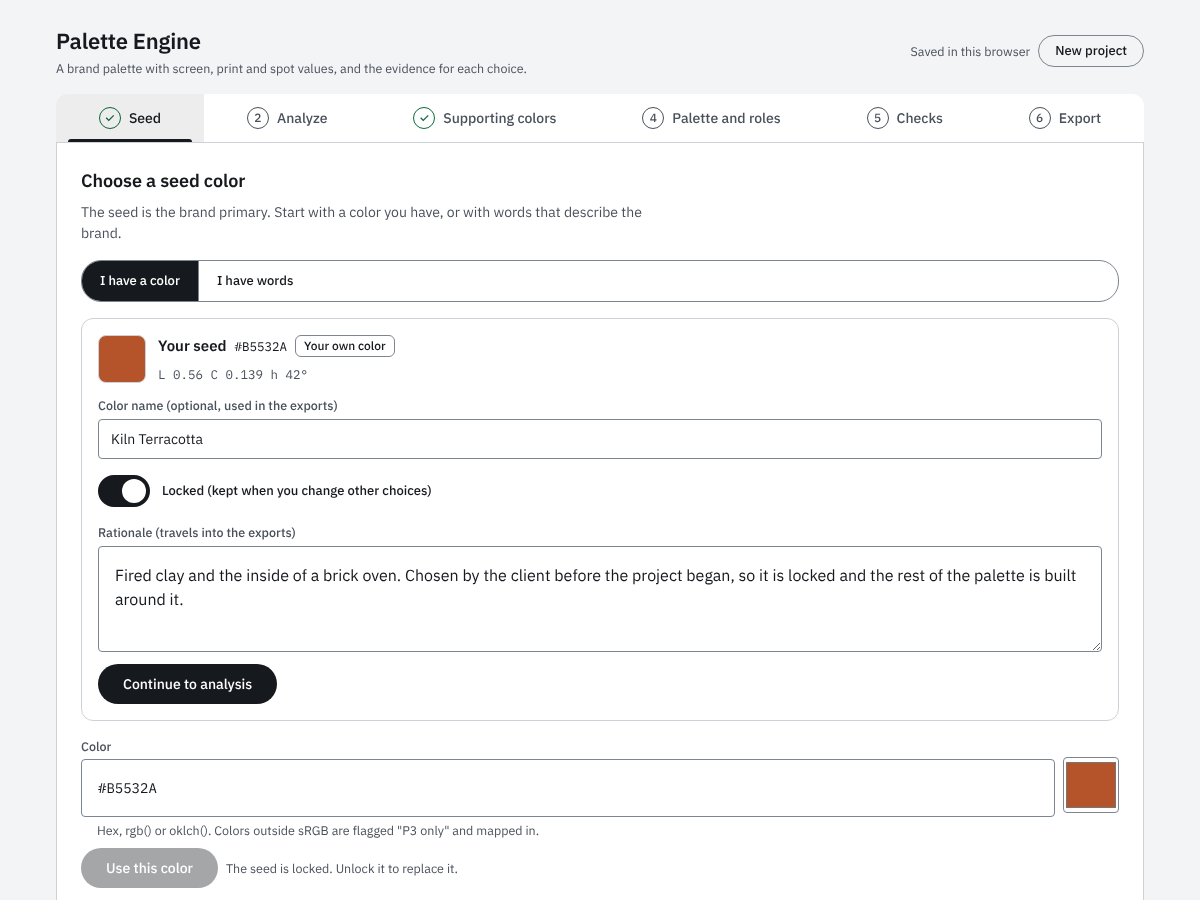
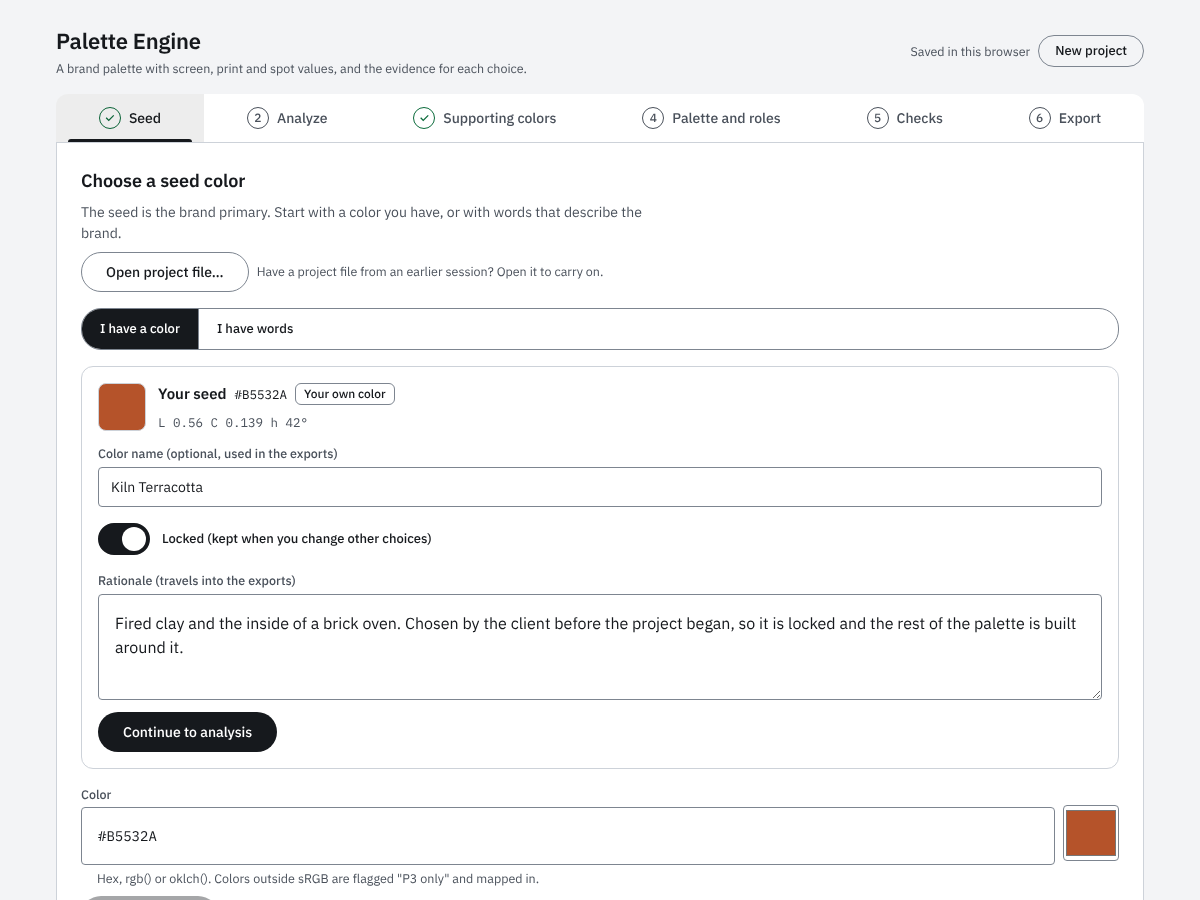
Open a saved project from the Seed step, landing on the step it was saved on
- web/app.js: the Seed step has an "Open project file..." button; Seed and Export share one
  opener (projectOpener) and one result note (projectResult). Opening over existing work
  still asks first; a failed open changes nothing and its note shows on the step where it
  was tried. A project with no seed opens on the Seed step.
- Opening a project now lands on the step it was saved on (no longer on Export). The
  "Opened." note shows above that step's heading and focus moves to the heading; the note
  ends when you leave the step.
- web/test_export_ui.mjs: 17 new checks (no work, with work, bad file, project without a seed,
  landing on a saved step)
- README, docs/05, docs/06, engine/HANDOFF.md, TO-CONFIRM C43; README Seed screenshot retaken
- Decision-log line 166 (owner adds to ui-ux-decisions-log.md)

Changed region(s): [[0.0617, 0.28, 0.8942, 0.84], [0.0617, 0.8711, 0.4625, 1.0], [0.8633, 0.84, 0.9558, 0.9644]]

diff --git a/web/app.js b/web/app.js
@@ -182,9 +182,13 @@ function chooseSeed(hex, origin, tier, extra) {
 }
 function renderSeed() {
   const known = S.path === 'known';
+  const opener = projectOpener('seed', 'outlined');
+  const seedMsg = exportUi.projectMsg && exportUi.projectMsg.where === 'seed' ? exportUi.projectMsg : null;
   const box = h('div', { class: 'stack' },
     h('div', { class: 'stack-s' }, h('h2', { id: 'panel-title', tabindex: '-1' }, 'Choose a seed color'),
-      h('p', { class: 'lead' }, 'The seed is the brand primary. Start with a color you have, or with words that describe the brand.')),
+      h('p', { class: 'lead' }, 'The seed is the brand primary. Start with a color you have, or with words that describe the brand.'),
+      h('div', { class: 'row' }, opener.button, opener.input, h('span', { class: 'small muted' }, 'Have a project file from an earlier session? Open it to carry on.')),
+      opener.confirm, seedMsg && projectResult(seedMsg)),
     segmented([{ id: 'known', label: 'I have a color' }, { id: 'words', label: 'I have words' }], S.path, (id) => { S.path = id; commit(); }, 'How to start'),
     S.seed && seedCard(),
     known ? renderKnown() : renderWords());
@@ -578,35 +582,49 @@ async function runExport(id) {
   exportUi.busy = ''; exportUi.results[id] = res; render(); say(res.text);
   const b = document.getElementById(`exp-${id}`); if (b) b.focus();
 }
-async function openProject(file) {
-  const fail = (errors, warnings) => { exportUi.projectMsg = { ok: false, errors, warnings: warnings || [] }; render(); say('The project file was not opened'); };
+async function openProject(file, where = 'export') {
+  const fail = (errors, warnings) => { exportUi.projectMsg = { ok: false, where, errors, warnings: warnings || [] }; render(); say('The project file was not opened'); };
   if (!file) return;
   if (file.size > PE.MAX_PROJECT_BYTES) return fail(['The file is too large to be a Palette Engine project.']);
   let text; try { text = await file.text(); } catch (e) { return fail(['The file could not be read.']); }
   const r = PE.parseProject(text);
   if (!r.ok) return fail(r.errors, r.warnings);
-  S = r.state; S.step = 'export'; if (!S.seed) S.step = 'seed';
-  exportUi.results = {}; exportUi.projectMsg = { ok: true, errors: [], warnings: r.warnings, savedAt: r.savedAt, name: file.name };
+  S = r.state; // the step it was saved on (a project with no seed is always on Seed: validateState)
+  exportUi.results = {}; exportUi.projectMsg = { ok: true, where: S.step, errors: [], warnings: r.warnings, savedAt: r.savedAt, name: file.name };
   saveNote = 'Opened from a project file'; commit(); say('Project opened');
+  requestAnimationFrame(() => { const t = $('#panel-title'); if (t) t.focus({ preventScroll: false }); }); // the control that was used is gone after the redraw
 }
-function projectSection() {
+// One way to open a project file, used on the Seed step (so a saved project can be the starting point) and on the Export step.
+// Opening over existing work asks first (rule S12.1); a failed open changes nothing (S11.2) and says why (S11.1).
+function projectOpener(where, cls) {
   const hasWork = !!S.seed;
   const input = h('input', { type: 'file', id: 'project-file', accept: '.json,application/json', style: 'display:none', 'aria-label': 'Open a project file', tabindex: '-1' });
-  input.addEventListener('change', () => { const f = input.files && input.files[0]; input.value = ''; if (f) openProject(f); });
+  input.addEventListener('change', () => { const f = input.files && input.files[0]; input.value = ''; if (f) openProject(f, where); });
   const pick = () => { exportUi.confirmOpen = false; input.click(); };
+  const button = h('button', { type: 'button', class: `btn ${cls}`, id: 'open-project', onclick: () => (hasWork ? (exportUi.confirmOpen = true, render(), (document.getElementById('open-confirm') || {}).focus?.()) : pick()) }, 'Open project file…');
+  const confirm = exportUi.confirmOpen && notice('warn', h('div', { class: 'stack-s' }, h('div', null, h('b', null, 'Replace your current work? '), 'Opening a project file replaces what is on this page. Save it first if you want to keep it.'),
+    h('div', { class: 'row' }, h('button', { type: 'button', class: 'btn filled small', id: 'open-confirm', onclick: pick }, 'Choose a file to open'), h('button', { type: 'button', class: 'btn text small', onclick: () => { exportUi.confirmOpen = false; render(); } }, 'Cancel'))));
+  return { input, button, confirm };
+}
+function projectResult(m) {
+  if (!m) return null;
+  return m.ok
+    ? notice('pass', h('b', null, 'Opened. '), `${m.name}${m.savedAt ? `, saved ${m.savedAt}` : ''}.`, m.warnings.length > 0 && ` Note: ${m.warnings.slice(0, 5).join(' ')}`)
+    : notice('fail', h('div', { class: 'stack-s' }, h('div', null, h('b', null, 'That file was not opened, and your work is unchanged. ')), h('ul', null, m.errors.slice(0, 12).map((e) => h('li', null, e))), m.errors.length > 12 && h('div', null, `…and ${m.errors.length - 12} more.`)));
+}
+function projectSection() {
+  const { input, button, confirm } = projectOpener('export', 'outlined');
   const m = exportUi.projectMsg;
   return h('div', { class: 'sect stack' }, h('h3', null, 'Save or open project'),
     h('p', { class: 'small muted' }, 'Save your choices (colors, locks, notes, overrides, accepted failures, pasted spot values) as a JSON file to open later or on another device. Saving is never blocked by accessibility failures.'),
     field('project-name', 'Project name (used in file names and the spec)', S.name, { compact: true, oninput: (v) => { S.name = v; save(); } }),
     h('div', { class: 'row' },
       h('button', { type: 'button', class: 'btn outlined', id: 'exp-project', disabled: !!exportUi.busy, onclick: () => runExport('project') }, 'Save project file'),
-      h('button', { type: 'button', class: 'btn outlined', id: 'open-project', onclick: () => (hasWork ? (exportUi.confirmOpen = true, render(), (document.getElementById('open-confirm') || {}).focus?.()) : pick()) }, 'Open project file…'),
+      button,
       input),
     exportUi.results.project && h('div', { class: 'small', role: 'status' }, exportUi.results.project.text),
-    exportUi.confirmOpen && notice('warn', h('div', { class: 'stack-s' }, h('div', null, h('b', null, 'Replace your current work? '), 'Opening a project file replaces what is on this page. Save it first if you want to keep it.'),
-      h('div', { class: 'row' }, h('button', { type: 'button', class: 'btn filled small', id: 'open-confirm', onclick: pick }, 'Choose a file to open'), h('button', { type: 'button', class: 'btn text small', onclick: () => { exportUi.confirmOpen = false; render(); } }, 'Cancel')))),
-    m && !m.ok && notice('fail', h('div', { class: 'stack-s' }, h('div', null, h('b', null, 'That file was not opened, and your work is unchanged. ')), h('ul', null, m.errors.slice(0, 12).map((e) => h('li', null, e))), m.errors.length > 12 && h('div', null, `…and ${m.errors.length - 12} more.`))),
-    m && m.ok && notice('pass', h('b', null, 'Opened. '), `${m.name}${m.savedAt ? `, saved ${m.savedAt}` : ''}.`, m.warnings.length > 0 && ` Note: ${m.warnings.slice(0, 5).join(' ')}`));
+    confirm,
+    projectResult(m));
 }
 function renderExport() {
   const pal = palette(); const items = exportStatus(pal);
@@ -642,7 +660,8 @@ function renderExport() {
 }
 
 // --- shell ------------------------------------------------------------------------------------------------------
-function setStep(id) { S.step = id; commit(); requestAnimationFrame(() => { const t = $('#panel-title'); if (t) t.focus({ preventScroll: false }); }); }
+function setStep(id) { if (exportUi.projectMsg && exportUi.projectMsg.where !== 'export') exportUi.projectMsg = null; // the Export step keeps its note, as before; any other step's note ends when the person leaves it
+  S.step = id; commit(); requestAnimationFrame(() => { const t = $('#panel-title'); if (t) t.focus({ preventScroll: false }); }); }
 function renderTabs() {
   const tabs = $('#tabs'); tabs.replaceChildren(...STEPS.map((s, i) => { const disabled = i > 0 && !S.seed; const done = (s.id === 'seed' && S.seed) || (s.id === 'support' && (S.supporting.secondary || S.supporting.tertiary));
     return h('button', { type: 'button', class: 'tab', role: 'tab', id: `tab-${s.id}`, 'aria-selected': String(S.step === s.id), 'aria-controls': 'panel', tabindex: S.step === s.id ? '0' : '-1', disabled: disabled, onclick: () => setStep(s.id) },
@@ -697,7 +716,10 @@ function renderNow() {
   renderTabs();
   const panel = $('#panel'); panel.setAttribute('aria-labelledby', `tab-${S.step}`);
   const view = { seed: renderSeed, analyze: renderAnalyze, support: renderSupport, palette: renderPalette, checks: renderChecks, export: renderExport }[S.step]();
-  panel.replaceChildren(view);
+  // After opening a project that was saved on a step other than Seed or Export, say so on that step (those two show the note inside their own section).
+  const m = exportUi.projectMsg;
+  const note = m && m.ok && m.where === S.step && S.step !== 'seed' && S.step !== 'export' ? projectResult(m) : null;
+  panel.replaceChildren(note ? h('div', { class: 'stack' }, note, view) : view);
 }
 let resetArmed = false;
 function init() {

diff --git a/TO-CONFIRM.md b/TO-CONFIRM.md
@@ -12,6 +12,7 @@ Status: **Open**, **Deferred** (blocked on something the maintainer does not hav
 
 | ID | Type | Item | Status | Detail and how to close it |
 | --- | --- | --- | --- | --- |
+| C43 | Fix | A saved project could only be opened from the Export step, which stays locked until a seed exists | Open (built 2026-10-14, awaiting commit, CI and a live check) | Kwade's report from testing the live page, 2026-10-14. The Seed step now has an "Open project file…" button (outlined, same control and same code as the Export step: `projectOpener` in `web/app.js`), so a saved project can be the starting point. Backing: UI/UX decision 156 (palette engine: Start a palette plus Open a file as the secondary action; E3.1), rules S2.1/S2.2 (Open from file, input type=file), S10 (untrusted file, unchanged), S11 (a failed open says why and changes nothing), S12.1 (opening over existing work asks first; unchanged flow); M3: outlined button, 40 px tall with a 48 px hit area, as the other buttons. Deviations: E3.1 words the secondary action as a link; an outlined button was used because a text-style button read as plain text in the screenshot check. Kwade's decision 2026-10-14: opening lands on the step the project was saved on, not on Export (a project with no seed is always on Seed). An "Opened." note shows above that step's heading (inside the section on Seed and Export), and focus moves to the heading, because the button that was used is gone after the redraw. The note ends when the person leaves the step; the Export step keeps its note, as before. A failed-open note shows on the step where it was tried and is cleared when the person leaves it. Checked in the sandbox: `npm test` passes (export UI 60 checks, 17 new; end to end 72), light, dark and 375 px screenshots look right. Not checked: Windows, CI, the live page, a screen reader on the new button. To close: commit, green CI, redeploy, open a project from the Seed step on the live page. Decision-log line (Kwade agreed the number 2026-10-14): 166, Palette: open a file from the start step, landing on the step it was saved on |
 | C41 | Decide | AGPL `colorparsley` inside the built page, via `apca-w3` | Open (fix built 2026-10-14, awaiting commit and a green CI run) | The built page bundled `colorparsley` 0.1.8 (AGPL-3.0, full text, no added permission) through `apca-w3` 0.1.9, whose own "Limited W3 License" restricts use to web content, forbids altering its essential code and constants, and bars commercial use without a signed agreement except under the W3 arrangement. Whether those two can be distributed together was not settled and is not legal advice. Fix (option a): `build/bundle.mjs` aliases `colorparsley` to `build/stubs/colorparsley-hex.js`, a hex-only module written for this project; the engine only passes hex strings (`apcaScore` in `engine/checks.js`: `'#ffffff'`, `'#000000'` and role colors). Checked 2026-10-14 in the sandbox: stand-in equals the real parser on 200,000 random hex strings; APCA scores equal the unmodified libraries on 100,000 random pairs and a 281,216-pair sweep of the RGB cube; 400 random seeds through `allCandidates`, `accessibilityOf`, `buildPalette`, the APCA table rows and `analyze` gave identical output before and after, and all seven exports of the Fernhill example are byte-identical; the full suite passes (`engine/test_apcastub.mjs` is new, 21 checks); the built page has no AGPL text, and `build/make_page.mjs` now refuses to build if any appears. Not covered: colors given as words or `rgb()` strings (the engine never passes them; the stand-in throws on them). Still open: (1) the `apca-w3` license itself, which still applies to the shipped APCA code; the author was not asked (option d); (2) docs/08 said the page shows the `apca-w3` version, but no code does; either add it to the Checks step or drop the claim; (3) the claude.ai artifact (version 14) still contains `colorparsley` until it is republished. To close: commit, green CI, republish, and decide (1) and (2) |
 | C1 | Confirm | **Ou & Luo (2006): Fig. 6b does not match printed Eq. (4) at low lightness sums** | Open | On the figure the curve is about −0.44 at the lowest sums; the printed equation gives about −0.26. A curve fitted to Fig. 6b (A 0.20, B 0.65, c −3.19, k 0.026) sits about 0.11 rms from the printed constants (0.28, 0.54, −3.88, 0.029). Fig. 7a's class means match neither version. The paper's own range over its 1431 pairs (−1.24 to 1.39) does not decide it: printed gives −1.16 to 1.37, the fit gives −1.30 to 1.40. Figs. 4b, 8 and 10a all match their printed equations, so the mismatch is specific to Eq. (4). An earlier conference version of the model (Ou & Luo, Derby, undated PDF supplied by Kwade) uses different equation forms and a −5 to 5 scale, so it cannot settle Eq. (4). The code keeps the printed equation. No erratum was found in searches (the Wiley page returned 403, so its corrections tab was not read). `engine/test_ouluo.mjs` records the gap size so code and this note cannot drift apart. Wiley is paywalled for Kwade. To close: the Ou/Luo chapter in the Handbook of Color Psychology, a later paper that restates Eq. (4), or ask the authors; if Fig. 6b is right, change `ls0`–`ls3` in `OU_LUO_K`. Asked the authors 2026-10-01 (one email covering C1 and C2, sent by Kwade; no reply yet). Save any reply in full; if none in a few weeks, one polite follow-up; silence is not an answer. Conference version re-read in full 2026-10-02 (Ou & Luo, "A Study of Colour Harmony for Two-colour Combinations", Derby, 7 pages, supplied by Kwade; whether it is the same file as the earlier copy was not checked): it prints CH = −2.2 + 0.03·L_sum + H_ΔC + H_ΔL + 1.1·H_H (R² 0.73), with lightness sum as a plain linear term, so it has no low-sum curve to compare with Fig. 6b or Eq. (4). Its scale is a mean category score from −5 to 5, not the 2006 scale, so its numbers cannot be rescaled onto the 2006 ones without a basis. Its Fig. 3(b) shows harmony rising with lightness sum, which fits either version of the curve. Nothing changes |
 | C2 | Confirm | Ou & Luo (2006): one constant the tests cannot pin down (EC's −2) | Open | The hue-curve constants (HS) are now pinned: the digitized Fig. 10a curve sits 0.002 median from Eq. (7), and a phase or harmonic misread is caught by `engine/test_ouluo.mjs`. EC (0.5 + 0.5·tanh(−2 + 0.5C*)) has no figure in the paper and the range test cannot tell −2 from −2.5. It rests on the transcription, where the text copy and PDF images agree. To close: a second implementation or the authors' data. Asked 2026-10-01 in the same email as C1; no reply yet. The conference version (see C1, re-read 2026-10-02) has no chroma-weighted hue term: its hue effect is the sum of two terms in sin(h + 0.83) and sin(2h + 1.55) per colour, with no tanh, so it cannot pin −2 against −2.5 |

diff --git a/README.md b/README.md
@@ -14,7 +14,7 @@ phases. [`docs/02-how-it-was-made.md`](docs/02-how-it-was-made.md) says what tha
 ## What it does
 
 1. **Seed.** Enter a color (hex, `rgb()`, `oklch()`), or pick descriptor words (calm, trustworthy, bold…) and choose from 3–5 candidates.
-   Colors outside sRGB are flagged "P3 only" and mapped in, with the original kept.
+   Colors outside sRGB are flagged "P3 only" and mapped in, with the original kept. A saved project file can be opened from this step too, to carry on where you left off.
 2. **Analyze.** Screen values (sRGB, OKLCH, HCT, Lab D50); CMYK and total ink for six print conditions, grouped by region (North America: GRACoL 2013 coated, SWOP 2013, GRACoL 2013 uncoated; Europe: PSO Coated v3, PSO Uncoated v3, a FOGRA39 file);
    a print-gamut flag with the nearest printable color; a scorer that ranks spot colors the designer pastes in.
 3. **Supporting colors.** Harmony lenses (analogous, complementary, split, triadic, square, empirical) with the evidence tier on each card.
@@ -35,9 +35,9 @@ Two rules run through everything:
 Everything below comes from the fictional Fernhill Bakery sample in [`examples/fernhill-bakery/`](examples/fernhill-bakery/) (invented brand and spot names, no Pantone
 data). The step images are cropped to the top of each step.
 
-**1. Seed.** Start from a color you have, or from words. The brand color can be named, locked and given a rationale, and that note travels into every export.
+**1. Seed.** Start from a color you have, from words, or from a saved project file (the Open project file button). The brand color can be named, locked and given a rationale, and that note travels into every export.
 
-![Seed step: the brand color #B5532A named Kiln Terracotta, locked, with a written rationale](docs/images/step-1-seed.png)
+![Seed step: an Open project file button above the choice of color or words, and the brand color #B5532A named Kiln Terracotta, locked, with a written rationale](docs/images/step-1-seed.png)
 
 **2. Analyze.** Screen values, CMYK and total ink for six print conditions, a print-gamut flag with the nearest printable color, and a scorer for spot colors you paste in.
 

diff --git a/docs/06-testing.md b/docs/06-testing.md
@@ -17,7 +17,7 @@ Run everything with `npm test` (engine and export tests, then a fresh page build
 | Exports (needs `poppler-utils` for pdftotext and pdftoppm, `qpdf` and `unzip` installed) | `test_export`, `test_ase`, `test_sheet`, `test_files`, `test_project` | Each format parsed back by an independent reader (JSON structure, postcss for CSS, markdown-it for Markdown, three ASE readers including Python, qpdf and pdftotext for the PDF); hostile and unusual input; blocked exports; project-file validation |
 | Example | `test_example` | The committed example outputs equal a fresh build, so they cannot go stale |
 | Design tokens | `web/test_tokens` | The page's own colors pass WCAG AA in both themes |
-| Browser: exports | `web/test_export_ui` | Gating, every download parsed back, the viewer save path (mocked), project save and open, invalid and hostile project files |
+| Browser: exports | `web/test_export_ui` | Gating, every download parsed back, the viewer save path (mocked), project save and open (from the Export step and from the Seed step, including a project with no seed), invalid and hostile project files |
 | Browser: end to end | `web/test_e2e` | A whole session on both entry paths; every step in light and dark at 375px and 1100px: no sideways scroll, WCAG AA text contrast, an accessible name on every control; keyboard focus ring; reload; blocked storage; hostile saved data |
 
 ## The Phase 6 gate

diff --git a/engine/HANDOFF.md b/engine/HANDOFF.md
@@ -88,7 +88,7 @@ The PDF and zip tests need `poppler-utils` (pdftotext, pdftoppm), `qpdf` and `un
   8% hover, 10% focus, 10% pressed (12% on chips, switches and tabs), 3px focus ring with 2px offset, disabled 38%. Source: Material Web 2.5.0 tokens (Apache-2.0);
   m3.material.io itself could not be read by the tools used. Intentional deviations: field labels sit above the field instead of floating inside the outline; the tab
   bar is used as a wizard stepper with a done mark; the visual design is not Material's.
-- **State** is saved in browser storage (flushed on `pagehide` and when the page is hidden) and in a project file (Export step).
+- **State** is saved in browser storage (flushed on `pagehide` and when the page is hidden) and in a project file (saved from the Export step; opened from the Seed or Export step).
 - **ASE:** structure checked by three independent readers (engine `parseAse`, the `ase-util` package, a Python struct reader) plus a third-party sample, but never in
   Adobe (TO-CONFIRM C7). `ASE_TESTED_IN_ADOBE` in `web/app.js` drives the on-page notice; flip it only after that check. No ICC profile is carried; SWOP and the three European conditions are not in
   the ASE (six print conditions since D38; the first three keep positions 0 to 2 because the ASE and summary tables read them by position); the spot group appears only with pasted values.

diff --git a/docs/05-exports.md b/docs/05-exports.md
@@ -11,7 +11,7 @@ Each format is parsed back by a reader that shares no code with the writer, in t
 | Color specification (text) | `<name>-color-spec.md` | Per-color values, CMYK for all six print conditions (with their regions) and gamut flags, spot matches, contrast, evidence tier, rationale, locks and accepted failures |
 | Adobe swatches (.ase) | `<name>.ase` | Groups: Screen RGB; Print GRACoL coated CMYK; Print uncoated CMYK; Spot approximations (Lab, named e.g. "185 C (approx.)"). Optional: the 84 tonal-palette colors |
 | Brand color sheet (PDF) | `<name>-color-spec-sheet.pdf` | US Letter: summary, one page per color, roles, role-pair checks. Footer states profile, intent and that swatches are not proofs |
-| Save or open project | `<name>.palette-project.json` | Everything chosen, so work is not tied to one browser. Loading validates strictly and refuses a bad file with reasons |
+| Save or open project | `<name>.palette-project.json` | Everything chosen, so work is not tied to one browser. Loading validates strictly and refuses a bad file with reasons. Opening is offered on the Seed step as well as on the Export step, so a saved project can be the starting point |
 
 "Download all" gives one `<name>-color-files.zip` with the seven files and a `README.txt`. `<name>` comes from the project name, reduced to `a–z 0–9 -`.
 
